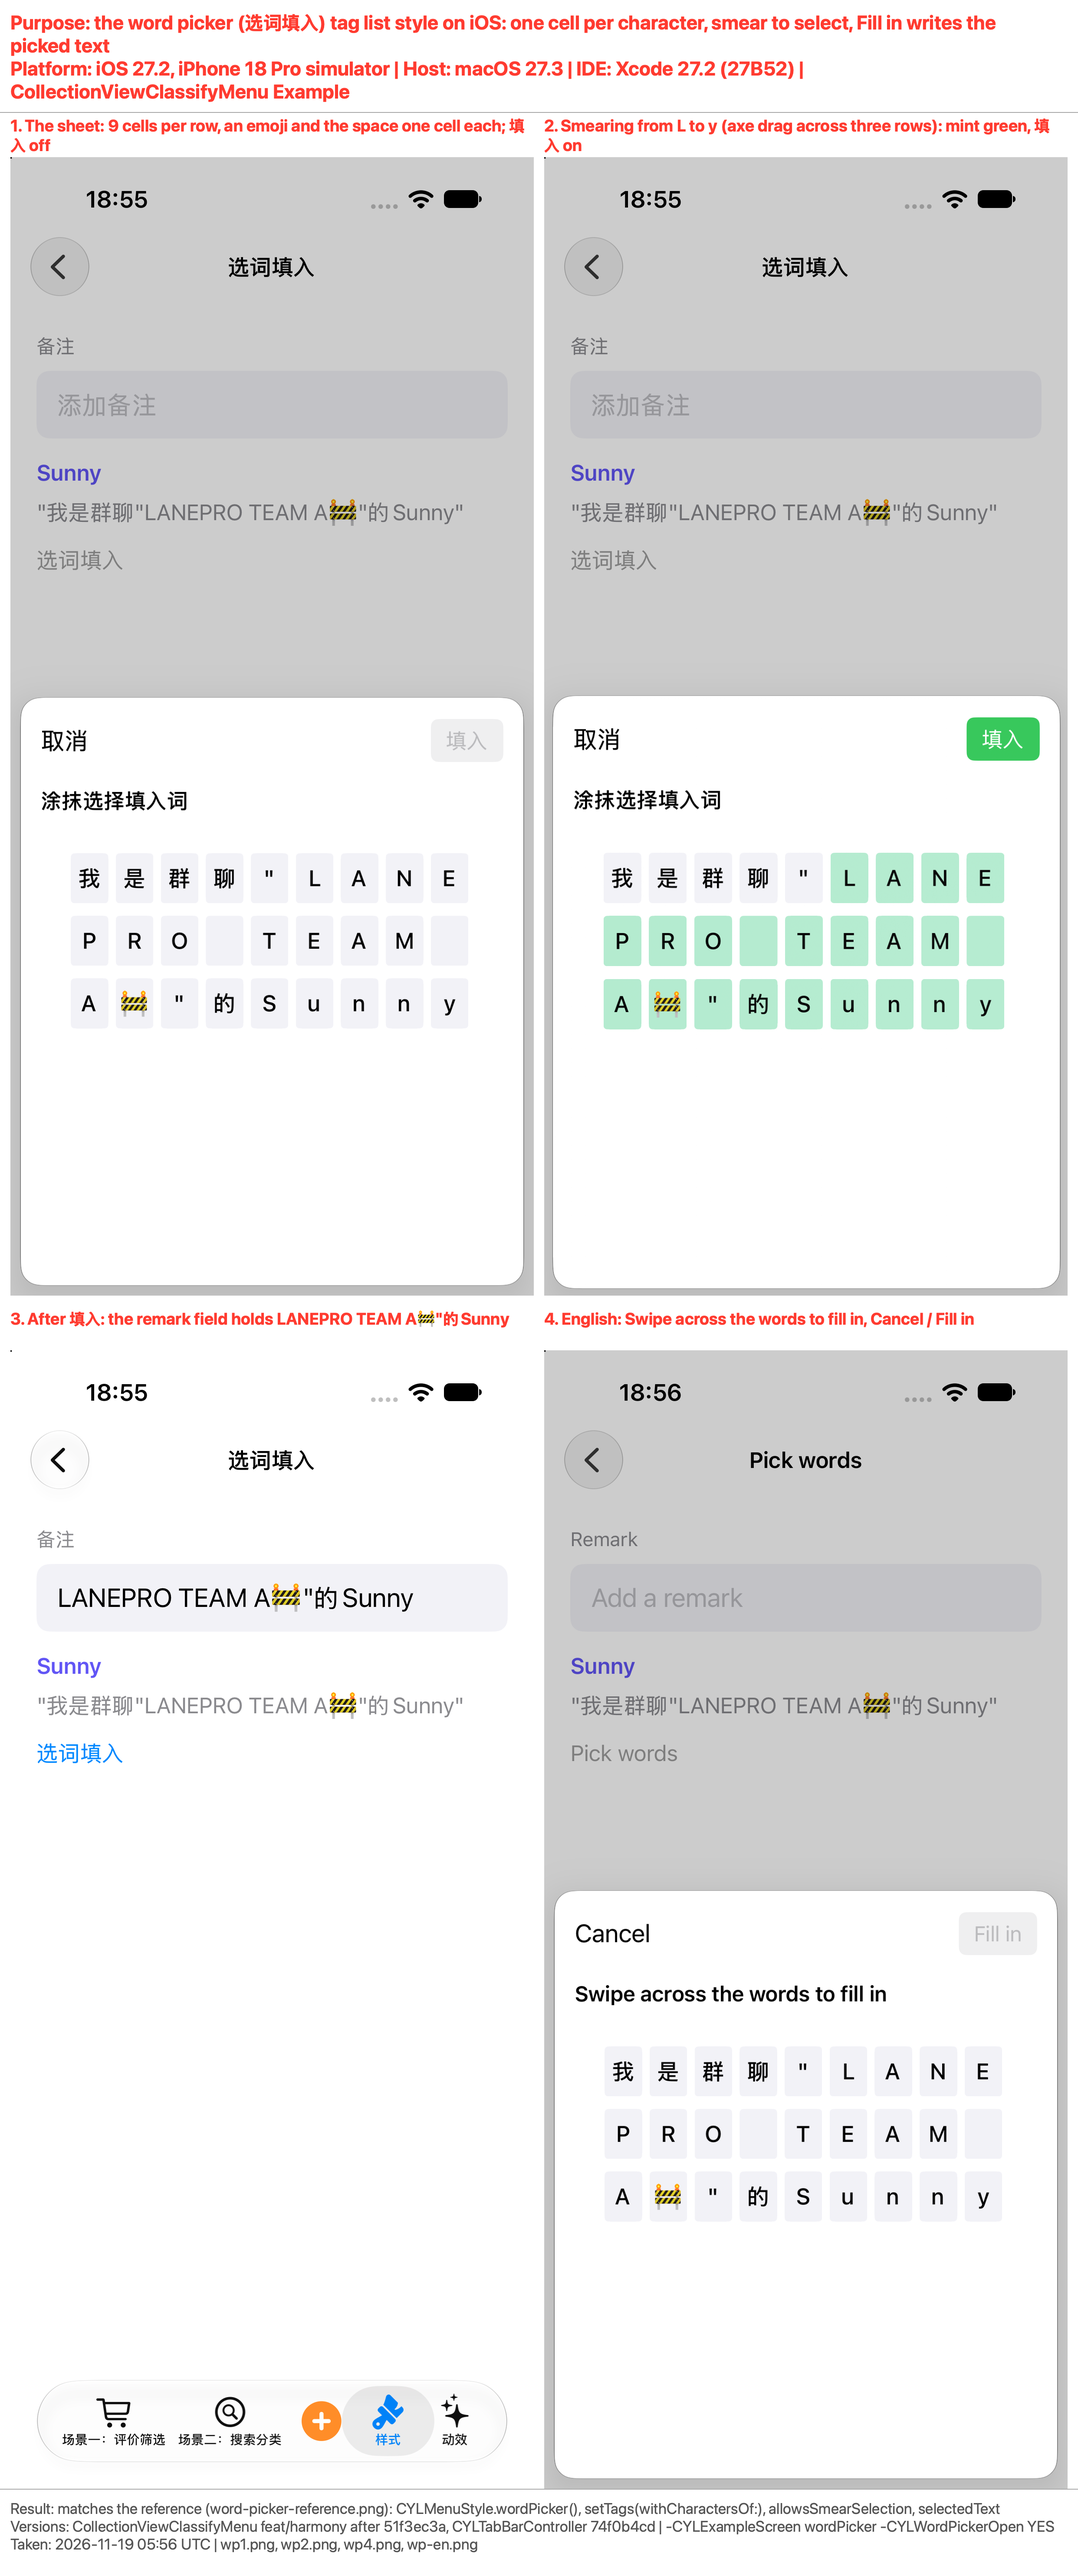
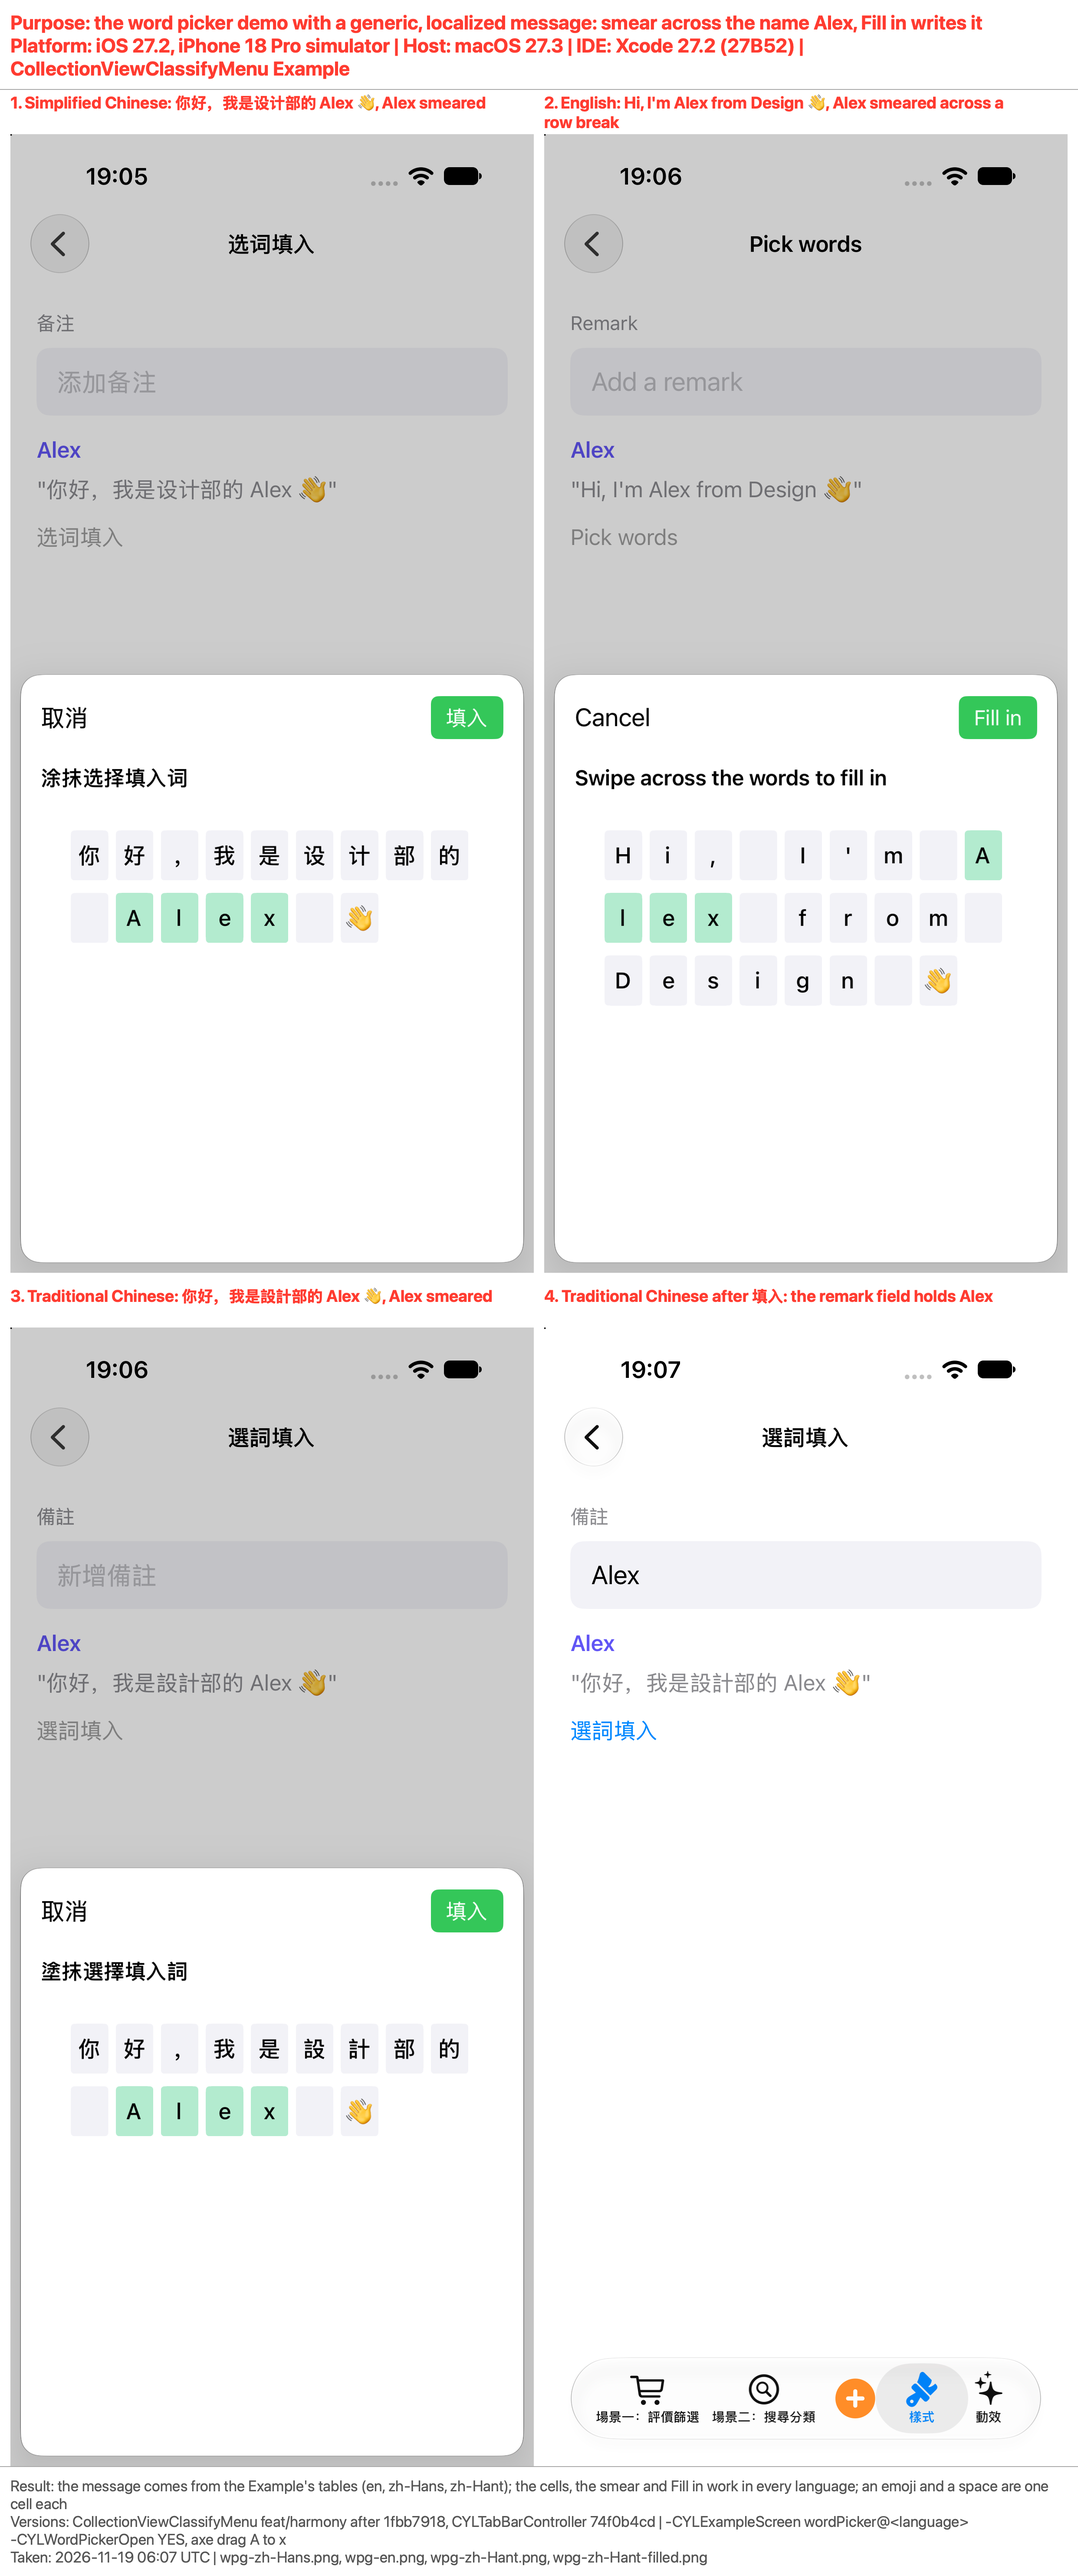
feat(example): ✨ the word picker demo uses a generic, localized message
The demo showed the text of the owner's WeChat screenshot as untranslated user content. It now shows an Example
string, "Hi, I'm Alex from Design 👋" (zh-Hans 你好，我是设计部的 Alex 👋, zh-Hant 你好，我是設計部的 Alex 👋), with
the sender Alex: letters, Chinese characters, an emoji and a space, and a name to pick. Tests find the name in any
language; a new test checks all three languages. Screenshots in the three languages.

By @ChenYilong <luohanchenyilong@163.com>

Claude-Session: https://claude.ai/code/session_017y7XP1mQbtZ3qSM2mvdshG

diff --git a/Example/CYLMenuExampleTests/CYLAndroidSampleTests.swift b/Example/CYLMenuExampleTests/CYLAndroidSampleTests.swift
@@ -383,6 +383,14 @@ final class CYLAndroidSampleTests: CYLMenuExampleTestCase {
         override func location(in view: UIView?) -> CGPoint { fakeLocation }
     }
 
+    /// The cells of the sender's name in `text` (one cell per character), in any language.
+    private func nameRange(in text: String) -> Range<Int> {
+        let characters = Array(text).map(String.init)
+        let name = Array(CYLWordPickerDemoViewController.sender).map(String.init)
+        let start = (0...(characters.count - name.count)).first { Array(characters[$0..<($0 + name.count)]) == name }!
+        return start..<(start + name.count)
+    }
+
     private func wordPickerList(_ text: String) -> CYLTagListView {
         let list = CYLTagListView()
         list.style = .wordPicker()
@@ -406,7 +414,7 @@ final class CYLAndroidSampleTests: CYLMenuExampleTestCase {
         let list = wordPickerList(text)
         XCTAssertEqual(list.tags.count, text.count)
         XCTAssertEqual(list.tags.map(\.title).joined(), text)
-        XCTAssertTrue(list.tags.contains { $0.title == "🚧" }, "an emoji is one cell")
+        XCTAssertTrue(list.tags.contains { $0.title == "👋" }, "an emoji is one cell")
         let first = list.probe.itemFrame(at: ip(0, 0)) ?? .zero
         let ninth = list.probe.itemFrame(at: ip(8, 0)) ?? .zero
         let tenth = list.probe.itemFrame(at: ip(9, 0)) ?? .zero
@@ -416,12 +424,33 @@ final class CYLAndroidSampleTests: CYLMenuExampleTestCase {
         let space = list.tags.firstIndex { $0.title == " " }!
         XCTAssertEqual(list.probe.cell(at: ip(space, 0))?.accessibilityLabel, "空格", "a space is read, not silent")
 
-        // L (index 5) through y (the last): "LANEPRO TEAM A🚧\"的Sunny".
-        let l = list.tags.firstIndex { $0.title == "L" }!
-        list.selectItems(from: ip(text.count - 1, 0), through: ip(l, 0))
-        XCTAssertEqual(list.selectedText, "LANEPRO TEAM A🚧\"的Sunny")
+        // The name, from its last letter back to its first: the picked text is "Alex", in text order.
+        let name = nameRange(in: text)
+        list.selectItems(from: ip(name.upperBound - 1, 0), through: ip(name.lowerBound, 0))
+        XCTAssertEqual(list.selectedText, CYLWordPickerDemoViewController.sender)
         list.deselectAllItems()
         XCTAssertEqual(list.selectedText, "")
+    }
+
+    /// The demo's message in every language: translated, with the name to pick, an emoji and a space; picking the name
+    /// gives the name.
+    func testWordPickerMessageInEveryLanguage() {
+        var messages: [String] = []
+        for language in ["en", "zh-Hans", "zh-Hant"] {
+            CYLMenuResources.preferredLanguage = language
+            let text = CYLWordPickerDemoViewController.message
+            messages.append(text)
+            XCTAssertTrue(text.contains(CYLWordPickerDemoViewController.sender), language)
+            XCTAssertTrue(text.contains("👋"), language)
+            XCTAssertTrue(text.contains(" "), language)
+            let list = wordPickerList(text)
+            let name = nameRange(in: text)
+            list.selectItems(from: ip(name.lowerBound, 0), through: ip(name.upperBound - 1, 0))
+            XCTAssertEqual(list.selectedText, CYLWordPickerDemoViewController.sender, language)
+        }
+        CYLMenuResources.preferredLanguage = "zh-Hans"
+        XCTAssertEqual(Set(messages).count, 3, "a different text per language")
+        XCTAssertFalse(messages[0].unicodeScalars.contains { (0x3400...0x9FFF).contains($0.value) }, "English has no Chinese")
     }
 
     /// A drag that starts on a cell selects every cell from it to the finger; starting on a selected cell deselects;
@@ -476,12 +505,12 @@ final class CYLAndroidSampleTests: CYLMenuExampleTestCase {
         sheet.loadViewIfNeeded()
         XCTAssertFalse(sheet.fillButton.isEnabled, "nothing selected: Fill in is off")
         let list = sheet.tagListView!
-        let l = list.tags.firstIndex { $0.title == "L" }!
-        list.selectItems(from: ip(l, 0), through: ip(list.tags.count - 1, 0))
+        let name = nameRange(in: CYLWordPickerDemoViewController.message)
+        list.selectItems(from: ip(name.lowerBound, 0), through: ip(name.upperBound - 1, 0))
         sheet.menu(list, didChangeSelectedItems: list.selectedIndexPaths)
         XCTAssertTrue(sheet.fillButton.isEnabled)
         sheet.fillTapped()
-        XCTAssertEqual(filled, "LANEPRO TEAM A🚧\"的Sunny")
+        XCTAssertEqual(filled, CYLWordPickerDemoViewController.sender)
     }
 }
 

diff --git a/Example/CYLMenuExample/CYLWordPickerDemoViewController.swift b/Example/CYLMenuExample/CYLWordPickerDemoViewController.swift
@@ -2,7 +2,7 @@
 //  CYLWordPickerDemoViewController.swift
 //  CYLMenuExample
 //
-//  The word picker (选词填入), as WeChat's friend verification page: a remark field, the friend's message with a
+//  The word picker (选词填入), as in a messaging app's contact request: a remark field, the sender's message with a
 //  "pick words" link, and a sheet where the message is one cell per character; smearing a finger across cells selects
 //  them, and "Fill in" writes the selected characters, in text order, into the field. The cells are a CYLTagListView
 //  with CYLMenuStyle.wordPicker(), setTags(withCharactersOf:), allowsSmearSelection and selectedText.
@@ -13,9 +13,13 @@ import CollectionViewClassifyMenu
 
 final class CYLWordPickerDemoViewController: UIViewController {
 
-    /// The friend's verification message: user content, shown as written in every language.
-    static let message = "我是群聊\"LANEPRO TEAM A🚧\"的Sunny"  // NOLOCALIZE: a friend's message (user content)
-    static let sender = "Sunny"
+    /// The sample message, in the app's language: a greeting with a name to pick, an emoji and a space, so the word
+    /// picker shows letters, Chinese characters, an emoji cell and a space cell.
+    static var message: String {
+        CYLExampleLocalizedString("你好，我是设计部的 Alex 👋")
+    }
+    /// The sender, and the name the demo's message lets you pick (a name, the same in every language).
+    static let sender = "Alex"
 
     private(set) var remarkField: UITextField!
     private(set) var pickButton: UIButton!

diff --git a/CrossPlatform/wechat-miniprogram/miniprogram/data/strings.js b/CrossPlatform/wechat-miniprogram/miniprogram/data/strings.js
@@ -44,6 +44,7 @@ module.exports = {
   "从头播放屏幕上的全部动效": "Plays every animation on screen from the start",
   "代码初始化：addTags(withTitles:)、addTag(_:)": "In code: addTags(withTitles:), addTag(_:)",
   "以图搜索": "Search by image",
+  "你好，我是设计部的 Alex 👋": "Hi, I'm Alex from Design 👋",
   "你确定要删除该标签组吗？": "Do you want to delete this tag group?",
   "保存": "Save",
   "信息检索": "Information retrieval",
@@ -468,6 +469,7 @@ module.exports = {
   "从头播放屏幕上的全部动效": "從頭播放螢幕上的全部動效",
   "代码初始化：addTags(withTitles:)、addTag(_:)": "程式碼初始化：addTags(withTitles:)、addTag(_:)",
   "以图搜索": "以圖搜尋",
+  "你好，我是设计部的 Alex 👋": "你好，我是設計部的 Alex 👋",
   "你确定要删除该标签组吗？": "你確定要刪除該標籤組嗎？",
   "保存": "儲存",
   "信息检索": "資訊檢索",

diff --git a/Example/CYLMenuExampleTests/CYLLocalizationTests.swift b/Example/CYLMenuExampleTests/CYLLocalizationTests.swift
@@ -114,8 +114,6 @@ final class CYLLocalizationTests: CYLMenuExampleTestCase {
         content += CYLHotSearchViewController.hotSearches.map(\.0)
         content += CYLImageTagSampleData.initialGroups().flatMap { $0.tags.map(\.title) }
         content += CYLTagContainerSampleData.list1 + CYLTagContainerSampleData.list3
-        // The word picker's friend message (user content).
-        content.append(CYLWordPickerDemoViewController.message)
         // The same, cut to tag_max_length (23: 20 characters and "...").
         content += CYLTagContainerSampleData.list1.map { String($0.prefix(20)) }
         return content

diff --git a/docs/issue-progress.md b/docs/issue-progress.md
@@ -1463,7 +1463,7 @@ tags: [issues, ui, cocoapods, progress]
   iOS→Android rows (888 / 893) are for the Windows session.
 
 
-### TODO (2026-11-19, `feat/harmony`): the word picker demo uses a generic, localized message
+### DONE (2026-11-19, `feat/harmony`): the word picker demo uses a generic, localized message
 
 - Context: the word picker demo (`cf5d9f7e`) shows the owner's WeChat screenshot text, `我是群聊"LANEPRO TEAM A🚧"的Sunny`,
   marked as user content and never translated. The owner wants a generic message that can be localized.
@@ -1494,3 +1494,11 @@ tags: [issues, ui, cocoapods, progress]
   real touch events across the row break, deselecting, a tap toggling, single selection); library 101 / 0, the example
   builds; `docs/android-api.md` 893 / 893, `docs/android-ios-api.md` 830 / 830; `check-localization-ports.py` 0 (it
   now prints UTF-8: a GBK console crashed on the message's emoji).
+- Result (DONE, **100 / 100**): `CYLWordPickerDemoViewController.message` is the Example string
+  "你好，我是设计部的 Alex 👋" (en "Hi, I'm Alex from Design 👋", zh-Hant "你好，我是設計部的 Alex 👋"), the sender "Alex";
+  the NOLOCALIZE exemption and its entry in the language test are gone. The tests find the name in whatever language
+  is current (`testWordPickerMessageInEveryLanguage`: translated in all three, the name, the emoji and a space in each,
+  picking the name gives "Alex"). Example tests of the word picker and localization: 16 / 16; localization checks 0;
+  mini program `strings.js` regenerated. Screenshots in the three languages:
+  [ios-word-picker.png](assets/ios-word-picker.png).
+
